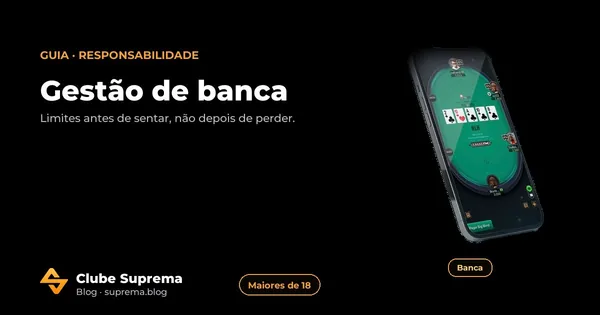
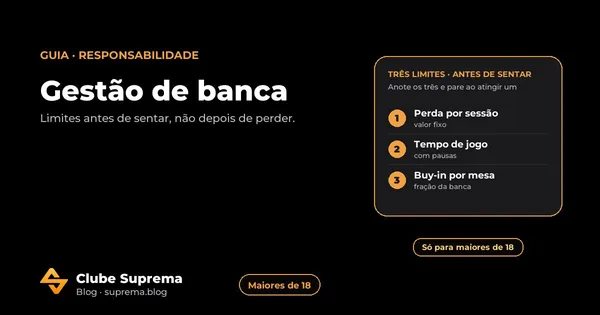
Revisão 22/11: capas próprias dos 2 posts de poker de hoje, post de abertura entra no repo, folha de estilo sem overflow
- gestao-de-banca-no-poker: capa nova (3 limites), tira o bloco capa* duplicado do front matter.
- tamanho-da-abertura-no-pre-flop: estava só no servidor; entra no repo com capa própria (a provisória era a de "Posições na mesa").
- capa_post.py: temas banca e abertura.
- blog.css: .prose com overflow-wrap para URL longa não alargar a página (/privacidade a 390 px).

Changed region(s): [[0.6, 0.1429, 0.96, 0.8857]]

diff --git a/public/blog.css b/public/blog.css
@@ -55,7 +55,7 @@ body.page-blog, body.page-post { background: #000; } /* fundo 100% preto */
 .toc a { color: #d9d4cb; text-decoration: none; }
 .toc a:hover { color: var(--gold-hi); text-decoration: underline; text-underline-offset: 3px; }
 
-.prose { font-size: 1.05rem; line-height: 1.75; color: #e6e2da; }
+.prose { overflow-wrap: anywhere; font-size: 1.05rem; line-height: 1.75; color: #e6e2da; }
 .prose h2 { font-size: clamp(1.4rem, 3vw, 1.8rem); font-weight: 800; letter-spacing: -.015em; margin: 44px 0 14px; padding-top: 14px; position: relative; scroll-margin-top: 90px; }
 .prose h2::before { content: ""; position: absolute; left: 0; top: 0; width: 72px; height: 2px; background: var(--gold-grad); box-shadow: 0 0 14px rgba(239, 161, 68, .5); }
 .prose h3 { font-size: 1.15rem; margin: 28px 0 10px; scroll-margin-top: 90px; }

diff --git a/tools/imagens/capa_post.py b/tools/imagens/capa_post.py
@@ -159,6 +159,40 @@ def illus_saque(img):
     capas.pill(img, "Passo a passo", 936, 494, capas.font(16, 700))
 
 
+def illus_banca(img):
+    x0, y0, x1, y1 = 748, 112, 1124, 432
+    d = _painel(img, x0, y0, x1, y1)
+    d.text((x0 + 28, y0 + 26), "TRÊS LIMITES · ANTES DE SENTAR", font=capas.font(16, 700), fill=GOLD)
+    d.text((x0 + 28, y0 + 52), "Anote os três e pare ao atingir um", font=capas.font(15, 500), fill=_MUTED)
+    rows = [("Perda por sessão", "valor fixo"), ("Tempo de jogo", "com pausas"), ("Buy-in por mesa", "fração da banca")]
+    for i, (a, b) in enumerate(rows):
+        cy = y0 + 124 + i * 62
+        cx = x0 + 46
+        d.ellipse((cx - 17, cy - 17, cx + 17, cy + 17), fill=GOLD)
+        d.text((cx, cy), str(i + 1), font=capas.font(19, 900), fill=INK, anchor="mm")
+        d.text((cx + 34, cy - 10), a, font=capas.font(19, 700), fill=capas.WHITE, anchor="lm")
+        d.text((cx + 34, cy + 13), b, font=capas.font(14, 500), fill=_MUTED, anchor="lm")
+        if i < len(rows) - 1:
+            d.line((x0 + 28, cy + 31, x1 - 28, cy + 31), fill=(52, 52, 58), width=1)
+    capas.pill(img, "Só para maiores de 18", 936, 494, capas.font(16, 700))
+
+
+def illus_abertura(img):
+    x0, y0, x1, y1 = 748, 112, 1124, 432
+    d = _painel(img, x0, y0, x1, y1)
+    d.text((x0 + 28, y0 + 26), "ABRIR O POTE · CASH GAME", font=capas.font(16, 700), fill=GOLD)
+    d.text((x0 + 28, y0 + 52), "Múltiplos do big blind, por posição", font=capas.font(15, 500), fill=_MUTED)
+    rows = [("Inicial", "2,5x a 3x", 0.80), ("Intermediária", "2,2x a 2,7x", 0.66), ("Final", "2x a 2,5x", 0.56), ("Small blind", "3x a 4x", 1.0)]
+    for i, (a, b, frac) in enumerate(rows):
+        cy = y0 + 118 + i * 52
+        d.text((x0 + 28, cy), a, font=capas.font(17, 600), fill=capas.WHITE, anchor="lm")
+        bx0, bx1 = x0 + 170, x1 - 28
+        d.rounded_rectangle((bx0, cy - 14, bx1, cy + 14), radius=14, fill=(46, 46, 52))
+        d.rounded_rectangle((bx0, cy - 14, bx0 + int((bx1 - bx0) * frac), cy + 14), radius=14, fill=GOLD)
+        d.text((bx0 + 14, cy), b, font=capas.font(16, 800), fill=INK, anchor="lm")
+    capas.pill(img, "Ponto de partida, não regra", 936, 494, capas.font(16, 700))
+
+
 data = front_matter(SLUG)
 tema = data.get("capaTema", "cartas")
 etiqueta = data.get("capaEtiqueta", "")
@@ -173,6 +207,8 @@ capas.ILLUS[SLUG] = {
     "erros": illus_erros,
     "liga": illus_liga,
     "saque": illus_saque,
+    "banca": illus_banca,
+    "abertura": illus_abertura,
 }.get(tema) or illus_cartas(etiqueta)
 
 desc = data.get("description", "")

diff --git a/content/blog/tamanho-da-abertura-no-pre-flop.md b/content/blog/tamanho-da-abertura-no-pre-flop.md
@@ -1,0 +1,121 @@
+---
+title: "Tamanho da abertura no pré-flop: quanto apostar no open raise"
+seoTitle: "Tamanho da abertura no pré-flop: 2x, 2,5x ou 3x o big blind?"
+description: "Quanto apostar ao abrir o pote no pré-flop do Texas Hold'em. Faixas de 2x a 4x o big blind por posição, cash e torneio, e a conta simples por trás de cada tamanho."
+date: 2026-11-22
+updated: 2026-11-22
+cover: /img/blog/tamanho-da-abertura-no-pre-flop/cover.jpg
+coverAlt: "Capa do guia Tamanho da abertura no pré-flop: faixas do aumento em múltiplos do big blind por posição"
+capaTema: abertura
+capaChamada: "Guia · Estratégia"
+capaTitulo: "Tamanho da abertura no pré-flop"
+capaSubtitulo: "2x, 2,5x ou 3x o big blind? Depende da posição."
+capaSelo: "Para iniciantes"
+tags: [estratégia, pré-flop, iniciantes]
+resumo: "Abrir o pote é ser o primeiro a aumentar quando ninguém aumentou antes. A prática comum é aumentar entre 2x e 4x o big blind. Em cash game, as faixas citadas vão de 2x a 2,5x nas posições finais até 2,5x a 3x nas iniciais, e o small blind abre maior. Em torneio, o tamanho cai conforme o stack encolhe, para cerca de 2,2x a 2,5x. Os números são ponto de partida, não regra de regulamento, e o jogo é só para maiores de 18 anos."
+passosTitulo: Como escolher o tamanho da sua abertura
+passos:
+  - Veja quantos big blinds você tem. Com 100 ou mais, o padrão é maior; perto de 25 a 35, a abertura encolhe.
+  - Confira a posição. Quanto mais perto do botão, menor pode ser o aumento; no small blind, maior.
+  - Conte os limpers. Cada jogador que só pagou o big blind costuma pedir mais 1 big blind no aumento.
+  - Escolha um tamanho padrão e repita. Mudar o valor conforme a mão que você tem entrega informação.
+  - Antes de aumentar, saiba o que fará se alguém responder com um 3-bet.
+faq:
+  - q: "Qual é o tamanho padrão de abertura no pré-flop?"
+    a: "Não existe um número único. O glossário da PokerStrategy cita de 2x a 4x o big blind, conforme formato e posição. Para cash online, o Blackrain79 trata 3x como padrão; em torneio, de 2,2x a 2,5x nas fases com stacks menores."
+  - q: "Posso só pagar o big blind, em vez de aumentar?"
+    a: "Pode, e isso se chama limp. As regras permitem, mas as fontes de estratégia costumam preferir aumentar quando se entra no pote. Veja o texto sobre limp neste blog."
+  - q: "A abertura precisa ser sempre do mesmo tamanho?"
+    a: "Não precisa, mas manter um tamanho só evita que os adversários leiam a força da sua mão pelo valor do aumento. As variações costumam ter motivo claro: posição, limpers ou stack."
+  - q: "O min-raise (2x) é bom?"
+    a: "Depende. É muito usado por jogadores avançados em torneio, mas o autor do guia do PokerNews diz que abrir mãos marginais com min-raise é um erro grave no próprio jogo dele, porque o aumento forma pouco pote quando você acerta."
+  - q: "Esse tamanho garante lucro?"
+    a: "Não. Tamanho de aposta não garante resultado em poker. Ele muda o preço que os outros pagam e o tamanho do pote, só isso. Jogue com um limite definido e só com dinheiro que não faz falta."
+---
+
+**Quanto apostar ao abrir o pote no pré-flop?** É uma das primeiras escolhas de toda mão de Texas Hold'em, e muito iniciante resolve por palpite. Este guia explica o que é a abertura, quais tamanhos as fontes de estratégia citam, por que eles mudam com a posição e com o stack, e a conta simples que sustenta cada número. Ele não ensina a ganhar dinheiro: tamanho de aposta muda o preço do pote, não o resultado da sua sessão.
+
+## O que é o open raise
+
+Open raise, ou abertura, é o primeiro aumento em um pote em que ninguém aumentou antes. O [glossário da PokerStrategy](https://www.pokerstrategy.com/glossary/open-raise/) define assim: o primeiro raise em um pote que ainda não foi aberto. Se alguém só pagou o big blind antes de você, esse jogador deu um limp, e o seu aumento passa a ser um aumento sobre limpers, com regra de tamanho um pouco diferente (mais abaixo).
+
+O valor se conta em múltiplos do big blind. "Abrir 2,5x" com blinds de 100 e 200 é aumentar para 500 fichas. Se você precisa rever o que são blind e ante, o texto [o que é blind e ante](/blog/o-que-e-blind-e-ante) cobre a base.
+
+## As faixas mais citadas
+
+A PokerStrategy afirma que o tamanho comum da abertura vai de 2x a 4x o big blind, dependendo do formato e da posição. Para cash game, ela lista:
+
+| Posição | Faixa citada |
+|---|---|
+| Inicial (UTG e seguintes) | 2,5x a 3x |
+| Intermediária | 2,2x a 2,7x |
+| Final (cutoff e botão) | 2x a 2,5x |
+| Small blind | 3x a 4x |
+
+Outras fontes não batem com esses números ao centavo, e isso é normal. O artigo do [Blackrain79 sobre tamanho de aposta no pré-flop](https://www.blackrain79.com/2022/08/preflop-bet-sizing.html) trata do cash game online e propõe 3x como padrão, e 2,5x (às vezes 2x) no cutoff e no botão quando a ideia é roubar blinds. Os dois concordam na lógica, que é abrir menor nas posições finais e maior nas iniciais, e discordam na régua. Trate cada número como ponto de partida para testar, não como lei.
+
+Vale a ressalva de origem: são artigos de estratégia escritos por autores de poker, não regulamento. Nenhuma regra do jogo obriga a abrir com um tamanho específico; cada mesa define o seu aumento mínimo, então confira no app.
+
+## Por que a posição muda o tamanho
+
+Quem abre no botão fala por último depois do flop. Quem abre da primeira posição fala primeiro e ainda tem a mesa inteira atrás para reagir. As [posições na mesa](/blog/posicoes-na-mesa-de-poker) explicam essa vantagem de falar por último.
+
+Na prática, isso dá três efeitos:
+
+- **Posição inicial:** muitas mãos ainda podem acordar atrás de você. Um aumento maior encarece o pagamento e tende a deixar menos gente no pote.
+- **Posição final:** sobram poucos jogadores, e você fala por último. Aumentar menos arrisca menos fichas para tentar levar os blinds.
+- **Small blind:** você fala primeiro em todas as ruas seguintes. Por isso as fontes pedem um aumento maior, de 3x a 4x, para compensar a desvantagem de posição.
+
+## A conta simples por trás do tamanho
+
+A conta que mais ajuda um iniciante é a de quantas vezes o aumento precisa dar certo para compensar o risco, sem contar as mãos em que alguém paga. A fórmula é risco dividido por risco mais ganho.
+
+No cash game, os blinds somam 1,5 big blind (small blind mais big blind). Veja o que acontece ao tentar levar esse pote:
+
+| Abertura | Você arrisca | Você ganha se todos desistem | Desistências necessárias |
+|---|---|---|---|
+| 2x | 2 bb | 1,5 bb | 2 ÷ 3,5, cerca de 57% |
+| 2,5x | 2,5 bb | 1,5 bb | 2,5 ÷ 4, cerca de 63% |
+| 3x | 3 bb | 1,5 bb | 3 ÷ 4,5, cerca de 67% |
+
+O Blackrain79 usa esse mesmo raciocínio: com 1,5 bb nos blinds, uma abertura de 3x precisa que cerca de 67% dos adversários desistam, e uma de 2x precisa de cerca de 57%. Repare no limite da conta: ela ignora a chance de ganhar a mão quando alguém paga, o ante e a taxa da mesa. Serve para sentir por que o aumento pequeno é mais barato de tentar, e não para prever lucro.
+
+Do outro lado, o aumento pequeno dá melhor preço a quem paga, e isso traz mais gente ao pote. É por isso que o tamanho exato vira escolha: menor custa menos quando dá errado, maior tira mais gente da mão. Para entender o preço que o adversário enxerga, veja [pot odds e outs](/blog/pot-odds-e-outs).
+
+## Cash game e torneio não usam a mesma régua
+
+Em cash game, o stack costuma ficar perto de 100 big blinds, então os tamanhos acima servem de base. Em torneio, o stack muda e o tamanho acompanha.
+
+A PokerStrategy descreve, para torneio:
+
+- por volta de 40 big blinds, aberturas de 2,2x a 2,5x;
+- entre 20 e 40 big blinds, de 2x a 2,2x;
+- abaixo de 20 big blinds, ou um min-raise, ou all-in, conforme a mão.
+
+O [PokerNews, em guia sobre apostas em torneios](https://www.pokernews.com/strategy/how-to-bet-in-poker-tournaments-22371.htm), conta uma história parecida. Nos primeiros níveis, com stacks fundos, 3x ainda funciona. Nas fases do meio e do fim, de 2,2x a 2,5x serve tanto a quem tem stack curto quanto a quem tem stack grande. Perto de 25 a 35 big blinds, abrir tudo com 3x pode deixar de ser possível. O mesmo texto diz que o min-raise é popular entre profissionais, mas o autor conta que abrir mão marginal nesse tamanho é um erro grave no jogo dele, porque o aumento forma pouco pote quando você acerta e deixa você mais exposto a reaumentos.
+
+Para entender como o torneio muda de fase, veja os [formatos de torneio de poker online](/blog/formatos-de-torneio-poker-online).
+
+## Com limpers na mesa
+
+Quando alguém já pagou o big blind, o pote tem mais fichas e mais gente. A regra citada pelo Blackrain79 é somar 1 big blind por limper ao tamanho normal. Com 3x como base, um limper pede 4 bb e dois limpers pedem 5 bb. Se você está fora de posição, soma mais 1 bb. A ideia é cobrar de quem entrou barato e reduzir o número de adversários no flop. Sobre os limpers em si, o texto [limp no poker](/blog/limp-no-poker) explica quando e por que acontece.
+
+## Um tamanho só, e um plano para o 3-bet
+
+Duas disciplinas valem mais que a régua exata.
+
+A primeira é a consistência. Se você abre 2,5x com par de ases e 2x com mão fraca, quem presta atenção aprende a ler o seu aumento. Escolher um tamanho padrão por posição e repetir tira essa pista da mesa. Mudar o valor precisa ter motivo claro: limpers, posição ou stack.
+
+A segunda é o plano para a resposta. O aumento que outro jogador faz sobre a sua abertura é o 3-bet, e o [guia de 3-bet e 4-bet](/blog/3bet-e-4bet) mostra como ele funciona. Segundo o Blackrain79, o 3-bet comum é de cerca de 3 vezes a abertura com posição e 4 vezes sem posição, e ele aconselha não fazer 3-bet abaixo de 3 vezes a abertura. Uma abertura de 2,5x no botão encontra, assim, um 3-bet de cerca de 10x do big blind vindo dos blinds. Antes de aumentar, saiba se vai pagar, desistir ou reaumentar quando isso acontecer.
+
+O tamanho é só metade da decisão. A outra metade é com quais mãos abrir, e isso também depende da posição. Para começar, as listas de [mãos iniciais do Texas Hold'em](/blog/maos-iniciais-texas-holdem) e o texto sobre [range](/blog/o-que-e-range) mostram o conjunto de mãos que cada posição costuma abrir. Termos que apareceram aqui estão no [glossário de poker](/blog/glossario-de-poker).
+
+## Fontes
+
+- [PokerStrategy: Open raise (glossário)](https://www.pokerstrategy.com/glossary/open-raise/)
+- [Blackrain79: tamanho de aposta no pré-flop](https://www.blackrain79.com/2022/08/preflop-bet-sizing.html)
+- [PokerNews: como apostar em torneios de poker](https://www.pokernews.com/strategy/how-to-bet-in-poker-tournaments-22371.htm)
+
+## Jogo responsável
+
+O poker é um jogo de habilidade com muita variância. Estudar tamanhos melhora a sua leitura das decisões, mas não tira o risco de perder. O jogo é só para maiores de 18 anos. Defina um limite de tempo e de dinheiro antes de sentar, faça pausas, não tente recuperar perdas e jogue só com dinheiro que não faz falta. Para apoio e informações, veja a página de [jogo responsável](/jogo-responsavel). Quem produz este conteúdo está descrito em [sobre o Clube Suprema](/sobre).

diff --git a/content/blog/gestao-de-banca-no-poker.md b/content/blog/gestao-de-banca-no-poker.md
@@ -5,7 +5,12 @@ description: O que é banca no poker, por que a variância faz até quem joga be
 date: 2026-11-22
 updated: 2026-11-22
 cover: /img/blog/gestao-de-banca-no-poker/cover.jpg
-coverAlt: Mesa de poker sobre fundo preto com o título "Gestão de banca no poker"
+coverAlt: "Capa do guia Gestão de banca no poker: os três limites a definir antes de sentar (perda, tempo e buy-in)"
+capaTema: banca
+capaChamada: "Guia · Responsabilidade"
+capaTitulo: "Gestão de banca"
+capaSubtitulo: "Limites antes de sentar, não depois de perder."
+capaSelo: "Maiores de 18"
 tags: [iniciantes, guia, jogo responsável]
 resumo: Banca é o dinheiro separado só para jogar poker, que você aceita perder sem afetar contas e compromissos. Gestão de banca é a regra que liga esse valor ao tamanho dos buy-ins, para que a variância, a oscilação natural dos resultados, não te tire do jogo nem do orçamento. Regras de bolso comuns são ter de 20 a 30 buy-ins para cash game e 100 ou mais para torneios, mas nenhuma regra garante resultado: poker envolve risco de perda, e o limite que vale é o que você definiu antes de sentar.
 passosTitulo: Como definir os seus limites antes de jogar
@@ -27,12 +32,6 @@ faq:
     a: Não. Aumentar o valor para recuperar perdas é um dos sinais de alerta do jogo problemático e costuma aumentar a perda. A decisão certa é parar quando o limite chega.
   - q: Onde procurar ajuda se o jogo deixou de ser lazer?
     a: O CVV atende de graça, 24 horas por dia, pelo telefone 188 (cvv.org.br), e o Jogadores Anônimos Brasil mantém grupos de apoio (jogadoresanonimos.com.br). Fale também com alguém de confiança.
-capaTema: mesa
-capaChamada: "Guia · Responsabilidade"
-capaTitulo: Gestão de banca
-capaSubtitulo: Limites antes de sentar, não depois de perder.
-capaSelo: Maiores de 18
-capaEtiqueta: Banca
 ---
 
 Você aprende as regras, entende as posições, joga uma noite boa e, na seguinte, perde três mãos em que estava na frente. Nada de errado com o seu jogo: foi a **variância**. Este guia explica **o que é banca no poker**, como a gestão de banca funciona e como definir limites de dinheiro e de tempo antes de sentar. Poker é só para **maiores de 18 anos**, envolve **risco de perda de dinheiro** e nada aqui garante ganho.
